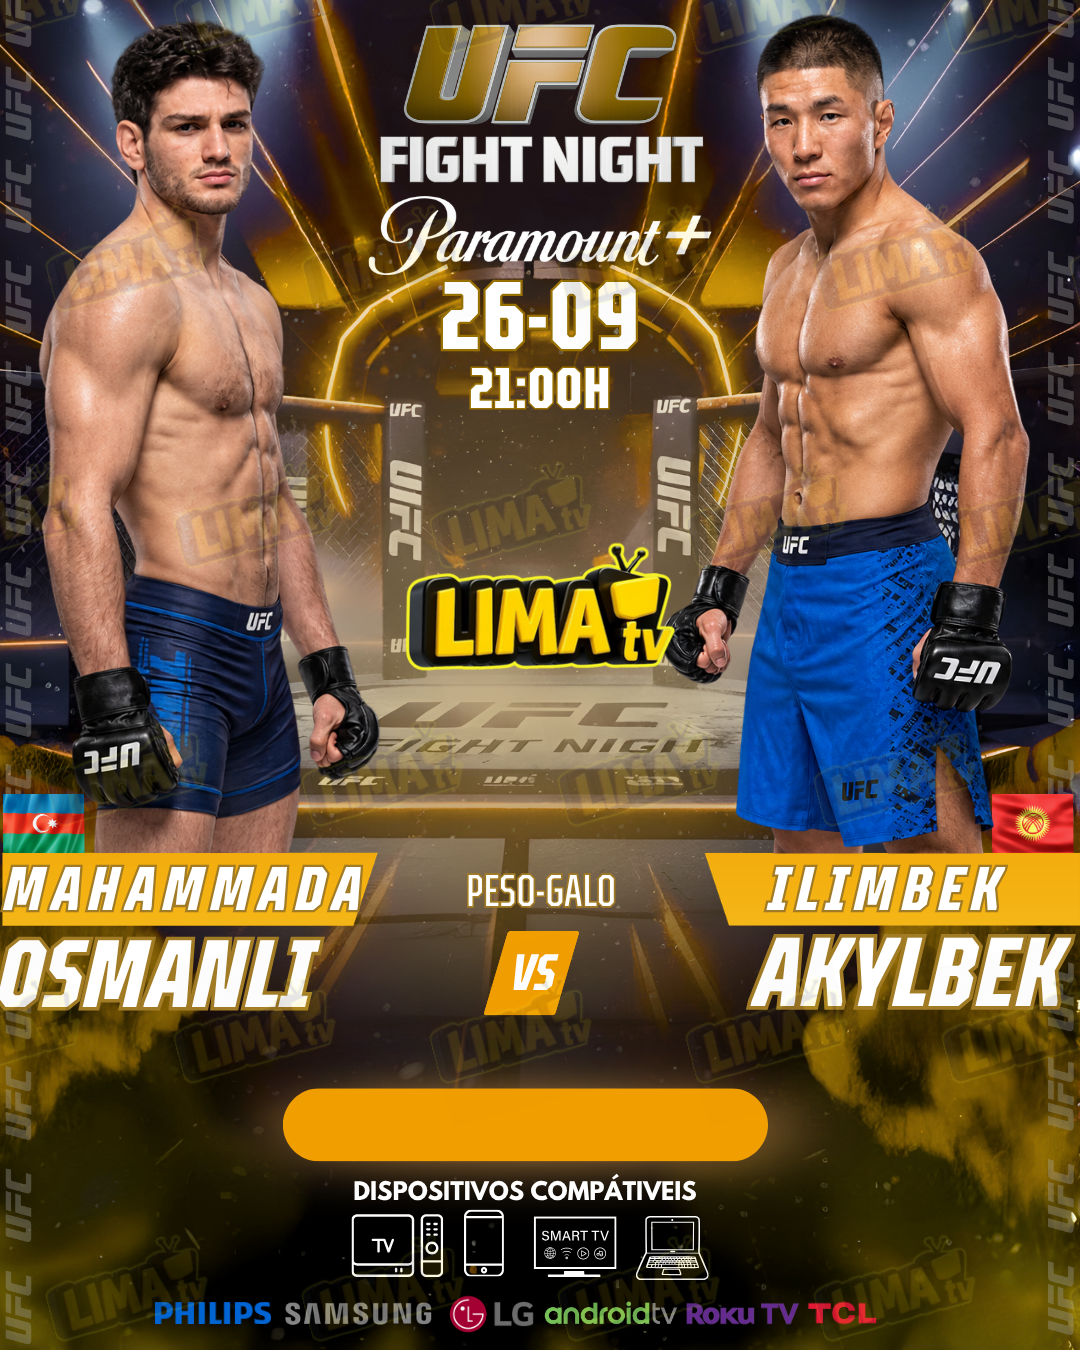
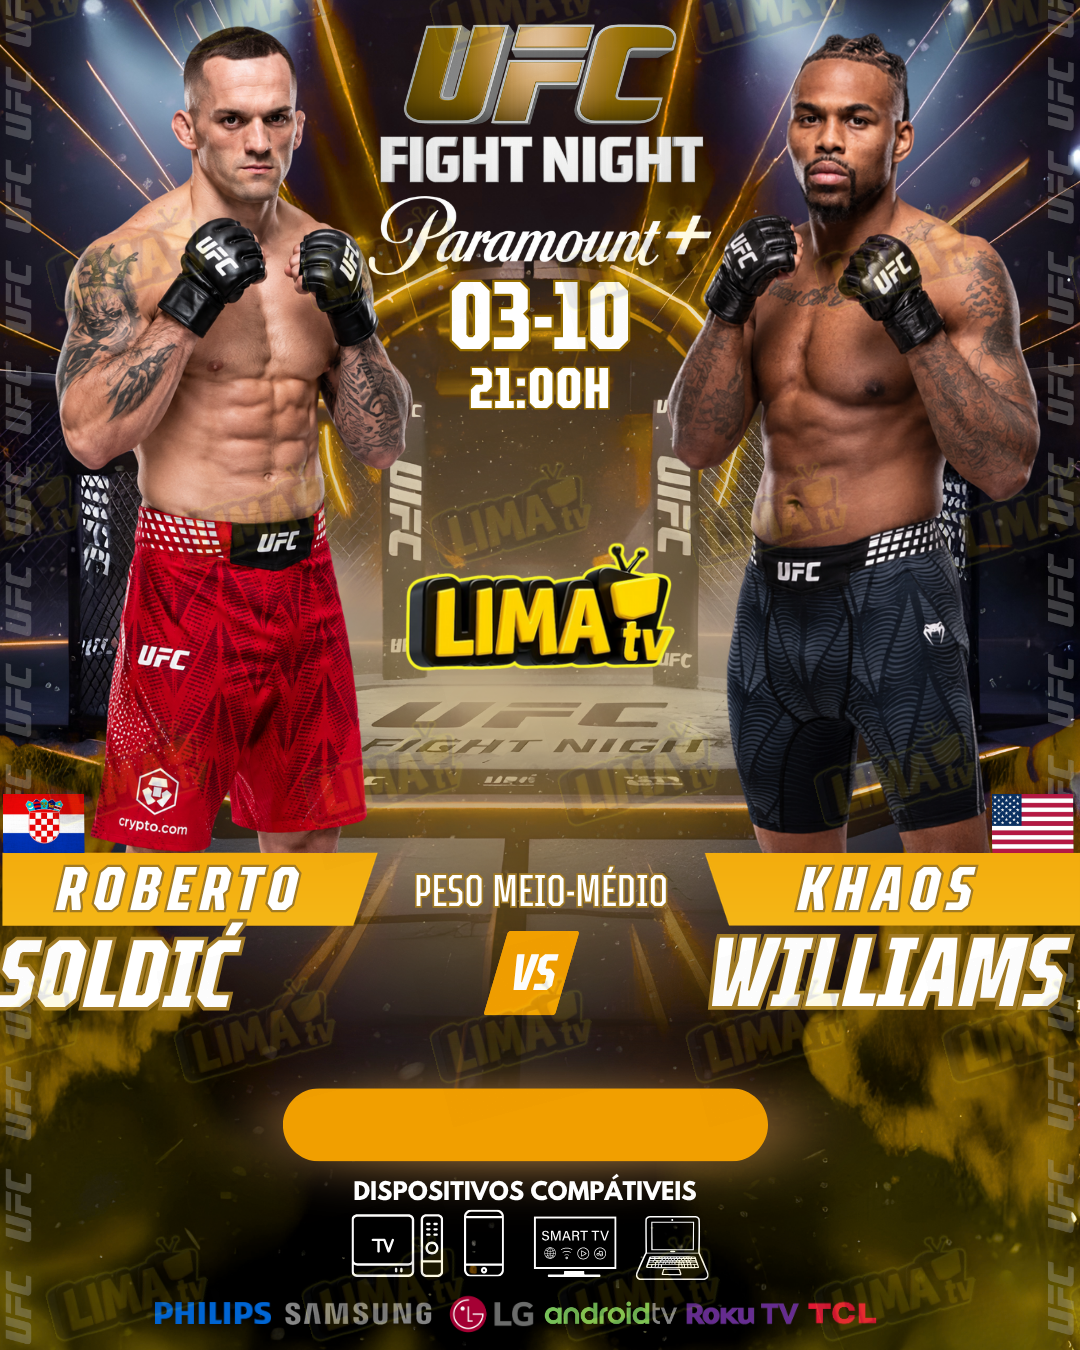
atualizacao 03/10/2026

diff --git a/index.html b/index.html
@@ -129,7 +129,7 @@
           <div class="container-imagens">
             <div>
               <img
-                src="futebol/capa_com_logo.png?v=02/10/06"
+                src="futebol/capa_com_logo.png?v=03/10/06"
                 alt="Jogos de futebol de hoje com horários e onde assistir"
                 width="300"
                 height="400"
@@ -140,7 +140,7 @@
 
             <div>
               <img
-                src="futebol/banner_1.png?v=02/10/06"
+                src="futebol/banner_1.png?v=03/10/06"
                 alt="Jogos de futebol de hoje com horários e onde assistir"
                 width="300"
                 height="400"
@@ -152,7 +152,18 @@
             
             <div>
               <img
-                src="futebol/banner_2.png?v=02/10/06"
+                src="futebol/banner_2.png?v=03/10/06"
+                alt="Jogos de futebol de hoje com horários e onde assistir"
+                width="300"
+                height="400"
+                loading="lazy"
+              />
+              <button class="btn-fullscreen">Ver em Tela Cheia</button>
+            </div>
+
+            <div>
+              <img
+                src="futebol/banner_3.png?v=03/10/06"
                 alt="Jogos de futebol de hoje com horários e onde assistir"
                 width="300"
                 height="400"
@@ -179,7 +190,7 @@
           <div class="container-imagens">
             <div>
               <img
-                src="nba/capa_com_logo.png?v=01/10"
+                src="nba/capa_com_logo.png?v=03/10"
                 alt="Jogos da NBA hoje com transmissão ao vivo"
                 width="300"
                 height="400"
@@ -190,7 +201,7 @@
 
             <div>
               <img
-                src="nba/banner_1.png?v=01/10"
+                src="nba/banner_1.png?v=03/10"
                 alt="Jogos da NBA hoje com transmissão ao vivo"
                 width="300"
                 height="400"
@@ -210,10 +221,10 @@
 
         <div class="div-imagens">
           <div class="container-imagens">
-            <p>PRÓXIMO GP DO AZERBAIJÃO 04/10/2026</p>
-            <!-- <div>
+            <!-- <p>PRÓXIMO GP DO AZERBAIJÃO 04/10/2026</p> -->
+            <div>
               <img
-                src="f1/banner_1.png?v=25/09"
+                src="f1/banner_1.png?v=03/10"
                 alt="Jogos da NBA hoje com transmissão ao vivo"
                 width="300"
                 height="400"
@@ -221,7 +232,7 @@
               />
 
               <button class="btn-fullscreen">Ver em Tela Cheia</button>
-            </div> -->
+            </div>
           </div>
         </div>
       </section>
@@ -235,13 +246,13 @@
           vivo.
         </p>
 
-        <p>PRÓXIMO EVENTO DIA 03/10/2026</p>
+        <!-- <p>PRÓXIMO EVENTO DIA 03/10/2026</p> -->
 
         <div class="div-imagens">
           <div class="container-imagens">
-            <!-- <div>
+            <div>
               <img
-                src="ufc/capa_com_logo.png?v=27/09/2026"
+                src="ufc/capa_com_logo.png?v=03/10/2026"
                 alt="Evento UFC hoje com horário e transmissão"
                 width="300"
                 height="400"
@@ -252,14 +263,61 @@
 
             <div>
               <img
-                src="ufc/banner_1.png"
+                src="ufc/banner_1.png?v=03/10/2026"
                 alt="Evento UFC hoje com horário e transmissão"
                 width="300"
                 height="400"
                 loading="lazy"
               />
               <button class="btn-fullscreen">Ver em Tela Cheia</button>
-            </div> -->
+            </div>
+
+            <div>
+              <img
+                src="ufc/banner_2.png?v=03/10/2026"
+                alt="Evento UFC hoje com horário e transmissão"
+                width="300"
+                height="400"
+                loading="lazy"
+              />
+              <button class="btn-fullscreen">Ver em Tela Cheia</button>
+            </div>
+
+            <div>
+              <img
+                src="ufc/banner_3.png?v=03/10/2026"
+                alt="Evento UFC hoje com horário e transmissão"
+                width="300"
+                height="400"
+                loading="lazy"
+              />
+              <button class="btn-fullscreen">Ver em Tela Cheia</button>
+            </div>
+
+            <div>
+              <img
+                src="ufc/banner_4.png?v=03/10/2026"
+                alt="Evento UFC hoje com horário e transmissão"
+                width="300"
+                height="400"
+                loading="lazy"
+              />
+              <button class="btn-fullscreen">Ver em Tela Cheia</button>
+            </div>
+
+            <div>
+              <img
+                src="ufc/banner_5.png?v=03/10/2026"
+                alt="Evento UFC hoje com horário e transmissão"
+                width="300"
+                height="400"
+                loading="lazy"
+              />
+              <button class="btn-fullscreen">Ver em Tela Cheia</button>
+            </div>
+
+
+
           </div>
         </div>
       </section>
@@ -277,7 +335,7 @@
           <div class="container-imagens">
             <div>
               <img
-                src="esportes/banner_1.png?=v02/10/2026"
+                src="esportes/banner_1.png?=v03/10/2026"
                 alt="Evento ESPORTES hoje com horário e transmissão"
                 width="300"
                 height="400"
@@ -288,7 +346,7 @@
 
             <div>
               <img
-                src="esportes/banner_2.png?=02/10/2026"
+                src="esportes/banner_2.png?=03/10/2026"
                 alt="Evento ESPORTES hoje com horário e transmissão"
                 width="300"
                 height="400"
@@ -300,7 +358,18 @@
             
             <div>
               <img
-                src="esportes/banner_3.png?=02/10/2026"
+                src="esportes/banner_3.png?=03/10/2026"
+                alt="Evento ESPORTES hoje com horário e transmissão"
+                width="300"
+                height="400"
+                loading="lazy"
+              />
+              <button class="btn-fullscreen">Ver em Tela Cheia</button>
+            </div>
+
+            <div>
+              <img
+                src="esportes/banner_4.png?=03/10/2026"
                 alt="Evento ESPORTES hoje com horário e transmissão"
                 width="300"
                 height="400"
